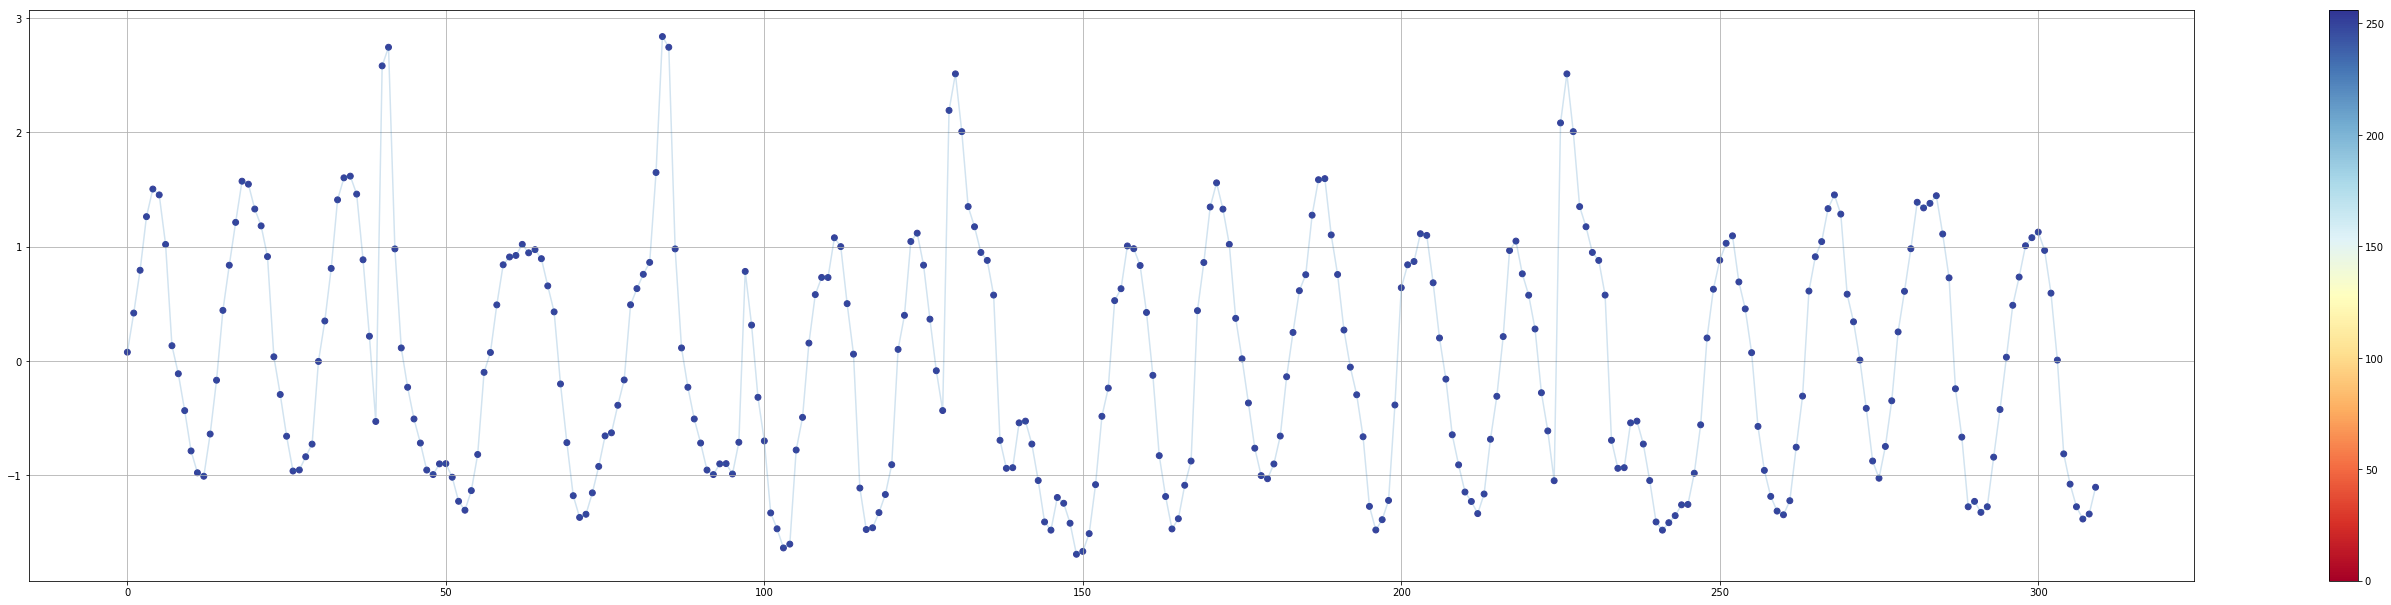
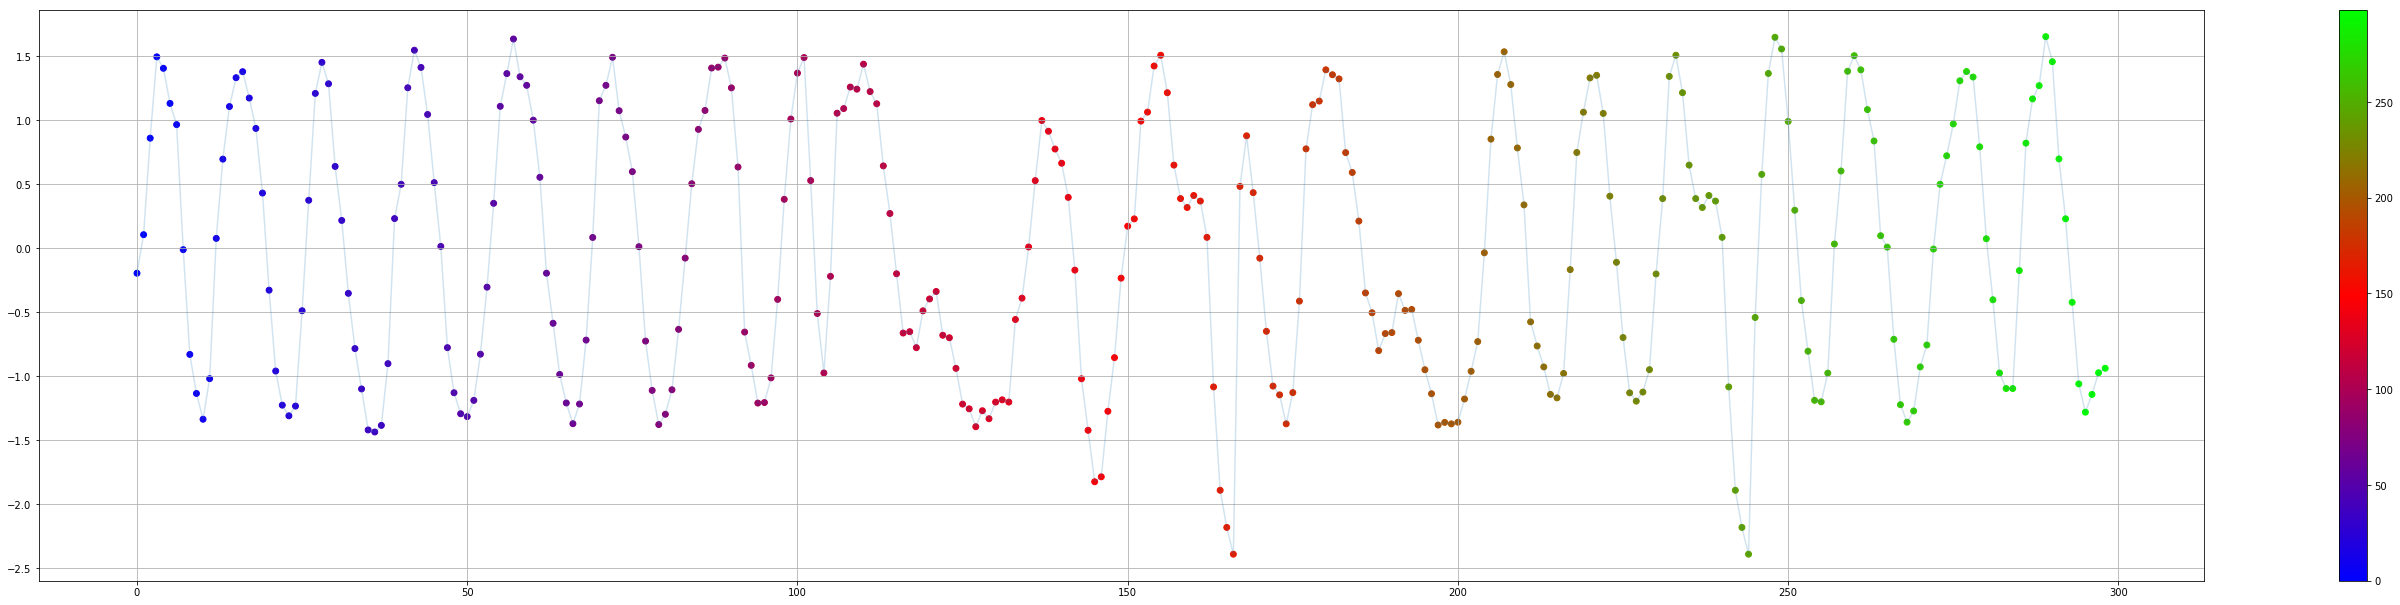
finish density cluster method. next step is to do multi denmision

diff --git a/segment_mode.py b/segment_mode.py
@@ -143,7 +143,7 @@ class segment_mode(object):
             pass
         #take a picture
         a=[x for x in range(len(new_sign))]
-        draw_pic.draw_pic( new_sign,False,a)
+        draw_pic.draw_pic( new_sign,a,a)
         self.data_sign=new_sign
         
         pass
@@ -171,6 +171,7 @@ class segment_mode(object):
         #the goal subseq is after now, before has been found.
         
         self.sub_cos={}
+        e_2=math.exp(2)
         #calulate cos of all sub
         for p1 in self.sub_dict:
             s1,e1=self.sub_dict[p1]
@@ -179,14 +180,16 @@ class segment_mode(object):
             for p2 in self.sub_dict:
                 s2,e2=self.sub_dict[p2]
                 
-                if s2>e1 or s1>e2:
+                if s2!=s1:
                     sub1=self.data_sign[s1:e1]
                     sub2=self.data_sign[s2:e2]
                     value=cos(sub1,sub2)
                     #range is(-1,1)
                     #closer to one ,more similar
                     #self.sub_cos[(s1,e1,s2,e2)]=value
-                    value=-1*(value-1)
+                    
+                    value=math.exp(value+1)/e_2
+                    value=4*(1-value)
                     self.__add_sub_value((s1,e1),(s2,e2),value)
         #caculate cos finish
         #caculate d_c
@@ -214,9 +217,10 @@ class segment_mode(object):
         #print('density:',density_set)
         x_array=[x[0][0] for x in density_set]
         y_array=[x[1] for x in density_set]
+        t_array=[x for x in x_array]
         #all fin
         print('theta')
-        draw_pic.draw_pic( y_array,False,x_array,False)
+        draw_pic.draw_pic( y_array,t_array,x_array,False)
         
         
         self.data_rou_theta=[]
@@ -226,14 +230,14 @@ class segment_mode(object):
         for pair in density_set:
             s1,e1=pair[0]
             neighborhood=pair[1]
-            min_theta=float('Inf')
+            min_theta=999
             if i+1<len(density_set):
                 #forget to except the start place
                 # it cannot repeat in same time
                 for next_pair in density_set[i+1:]:
                     #compare with all rou> now
                     s2,e2=next_pair[0]
-                    if s2>e1 or s1>e2:
+                    if s2!=s1:
                         
                         min_theta=min(min_theta,self.__get_sub_value((s1,e1),(s2,e2)))
                     pass
@@ -245,12 +249,28 @@ class segment_mode(object):
                 break
             #forget i=i+1
             i=i+1
-        
+        #standardlize
         x_array=[x[1] for x in self.data_rou_theta]
+        x_array=Z_ScoreNormalization(x_array)
+        minx=min(x_array)
+        x_array=[x-minx for x in x_array]
+        
         y_array=[x[2] for x in self.data_rou_theta]
+        y_array=Z_ScoreNormalization(y_array)
+        miny=min(y_array)
+        y_array=[y-miny for y in y_array]
+        
+        
+        t_array=[x[0][0] for x in self.data_rou_theta]
+        for i in range(len(self.data_rou_theta)):
+            rou=x_array[i]
+            theta=y_array[i]
+            gamma=rou*theta
+            self.data_rou_theta[i]=[self.data_rou_theta[i][0],rou,theta,gamma]
         #all fin
-        #print('y_array',y_array)
-        draw_pic.draw_pic( y_array,False,x_array,False)
+        #print('x_array',x_array,'len',len(x_array))
+        #print('x_array',y_array,'len',len(y_array))
+        draw_pic.draw_pic( y_array,t_array,x_array,False)
         pass
     
     def __count_dc_of_cos_dict(self):
@@ -261,12 +281,14 @@ class segment_mode(object):
             sub_dict=self.sub_cos[k1]
             for k2 in sub_dict:
                 value_seq.append(sub_dict[k2])
-        t=0.015*len(value_seq)
+        t=0.012*len(value_seq)
         t=round(t)
+        t=max(t,1)
         value_seq.sort()
         
         #print('value seq:', value_seq)
-        #print('dc=',value_seq[t])
+        #print('t=',t)
+        self.dc=value_seq[t]
         return value_seq[t]
         pass
     def __get_sub_value(self,seg1,seg2):
@@ -325,9 +347,140 @@ class segment_mode(object):
         self.dataseq
     
     def density_clu(self):
+        #self.data_rou_theta[i]=[(s1,e1),rou,theta,gamma]
+        self.data_rou_theta=sorted(self.data_rou_theta,key=lambda x:x[3],reverse=True)
+        clu_center=[]
+        #clu_center record inner
+        out_center=[]
+        #out record outer
+        inner_clu_threshold=2
+        outer_clu_threshold=0.1
+        if_partition={}
+        for key in self.sub_cos:
+            s1,e1=key
+            for i in range(s1,e1):    
+                if_partition[i]=False
+        #max_e=len(if_partition)-1
+        #record inner
+        for pair in self.data_rou_theta:
+            if pair[3]>=inner_clu_threshold:
+                s1,e1=pair[0]
+                now_center=(s1,e1)
+                now_clu=[]
+                #judge all have distance with center
+                if self.sub_cos.get((s1,e1))==None:
+                    seg1_dict={}
+                else:
+                    seg1_dict=self.sub_cos.get((s1,e1))
+                    
+                for key in seg1_dict:
+                    s2,e2=key
+                    if s2>e1 or s1>e2:
+                        s2e2_done=False
+                        
+                        for i in range(s2,s2+1):  
+                            if i in if_partition and if_partition[i]==True:
+                                #has been divide
+                                s2e2_done=True
+                                break
+                        if s2e2_done==True:
+                            continue
+                        if seg1_dict[key]<=self.dc:
+                            #add to this clu
+                            now_clu.append(key)
+                            for i in range(s2,s2+1):    
+                                if_partition[i]=True
+                            #had been divided
+                #often match at least appearence 2 times
+                if len(now_clu)>1:
+                    clu_center.append([now_center,now_clu])
+            else:
+                pass
+                #not in clu_center is outlier
+        #recode outer
+        for pair in self.data_rou_theta:
+            if pair[3]<outer_clu_threshold:
+                s1,e1=pair[0]
+                now_center=(s1,e1)
+                now_clu=[]
+                #judge all have distance with center
+                if self.sub_cos.get((s1,e1))==None:
+                    seg1_dict={}
+                else:
+                    seg1_dict=self.sub_cos.get((s1,e1))
+                    
+                for key in seg1_dict:
+                    s2,e2=key
+                    if s2>e1 or s1>e2:
+                        s2e2_done=False
+                        for i in range(s2,e2):   
+                            if i in if_partition and if_partition[i]==True:
+                                #has been divide
+                                s2e2_done=True
+                                break
+                        if s2e2_done==True:
+                            continue
+                        if seg1_dict[key]<=self.dc:
+                            #add to this clu
+                            now_clu.append(key)
+                            for i in range(s2,e2):    
+                                if_partition[i]=True
+                            #had been divided
+                if len(now_clu)>1:
+                    out_center.append([now_center,now_clu])
+            else:
+                pass
+        self.inner_clu=clu_center 
+        self.outer_clu=out_center
+        
+        #time to show
+        y_array=self.data_sign
+        x_array=[x for x in range(len(y_array))]
+        
+        print ('inner cluster num:',len(self.inner_clu))
+        print (self.inner_clu)
+        max_clu=len(self.inner_clu)
+        clu_array=[max_clu for x in x_array]
+        nowcolor=0
+        for pair in self.inner_clu:
+            color_array=[]
+            color_array=pair[1]
+            color_array.append(pair[0])
+            #each segment
+            if len(color_array)<2:
+                continue
+            for p in color_array:
+                s1,e1=p
+                #fill (s1,e1)
+                for i in range(s1,e1):
+                    clu_array[i]=nowcolor
+            #for next time color changed
+            nowcolor=nowcolor+1
+        clu_array=[nowcolor*2 if x==max_clu else x for x in clu_array]
+        draw_pic.draw_pic( y_array,clu_array,x_array)
         
         
-        
+        print ('outter cluster num:',len(self.outer_clu))
+        print (self.outer_clu)
+        max_clu=len(self.outer_clu)
+        clu_array=[max_clu for x in x_array]
+        nowcolor=0
+        for pair in self.outer_clu:
+            color_array=[]
+            color_array=pair[1]
+            color_array.append(pair[0])
+            #each segment
+            if len(color_array)<2:
+                continue
+            for p in color_array:
+                s1,e1=p
+                #fill (s1,e1)
+                for i in range(s1,e1):
+                    clu_array[i]=nowcolor
+            #for next time color changed
+            nowcolor=nowcolor+1
+        clu_array=[nowcolor*2 if x==max_clu else x for x in clu_array]
+        draw_pic.draw_pic( y_array,clu_array,x_array)
         pass
     pass
 
@@ -343,4 +496,5 @@ if __name__=='__main__':
     b.insert_rare_in_rlist()
     c=segment_mode(70,100, b.randomlize_xlist)
     c.slide_cos_search()
+    c.density_clu()
     pass

diff --git a/draw_pic.py b/draw_pic.py
@@ -17,16 +17,22 @@ class draw_pic(object):
         fig.set_size_inches(48.5, 10.5)
         ax.grid(True)
         a=yarray
-        cm = plt.cm.get_cmap('RdYlBu')
-        if xcolor==False:
+        v_min=0
+        v_max=250
+        #cm = plt.cm.get_cmap('RdYlBu')
+        cm = plt.cm.get_cmap('brg')
+        if type(xcolor)==bool:
             z=[250 for i in yarray]
         else:
             z=xcolor
-        if xarray==False:
+            v_min=min(z)
+            v_max=max(z)
+        
+        if type(xarray)==bool :
             b=[i for i in range(len(yarray))]
         else:
             b=xarray
-        sc = plt.scatter(b, a, c=z, vmin=0, vmax=256, s=35, cmap=cm)
+        sc = plt.scatter(b, a, c=z, vmin=v_min, vmax=v_max, s=35, cmap=cm)
         if draw_line==True:
             ax.plot(b,a,alpha=0.2)
         plt.colorbar(sc)

diff --git a/customize_tool.py b/customize_tool.py
@@ -8,7 +8,10 @@ import numpy
 def Z_ScoreNormalization(x):
     mu=numpy.average(x)
     sigma=numpy.std(x)
-    x = (x - mu) / sigma;  
+    #x = (x - mu) / sigma;  
+    x=[t-mu for t in x]
+    x=[t/sigma for t in x]
+    
     return x;  
 def cos(vector1,vector2):  
     dot_product = 0.0;  
